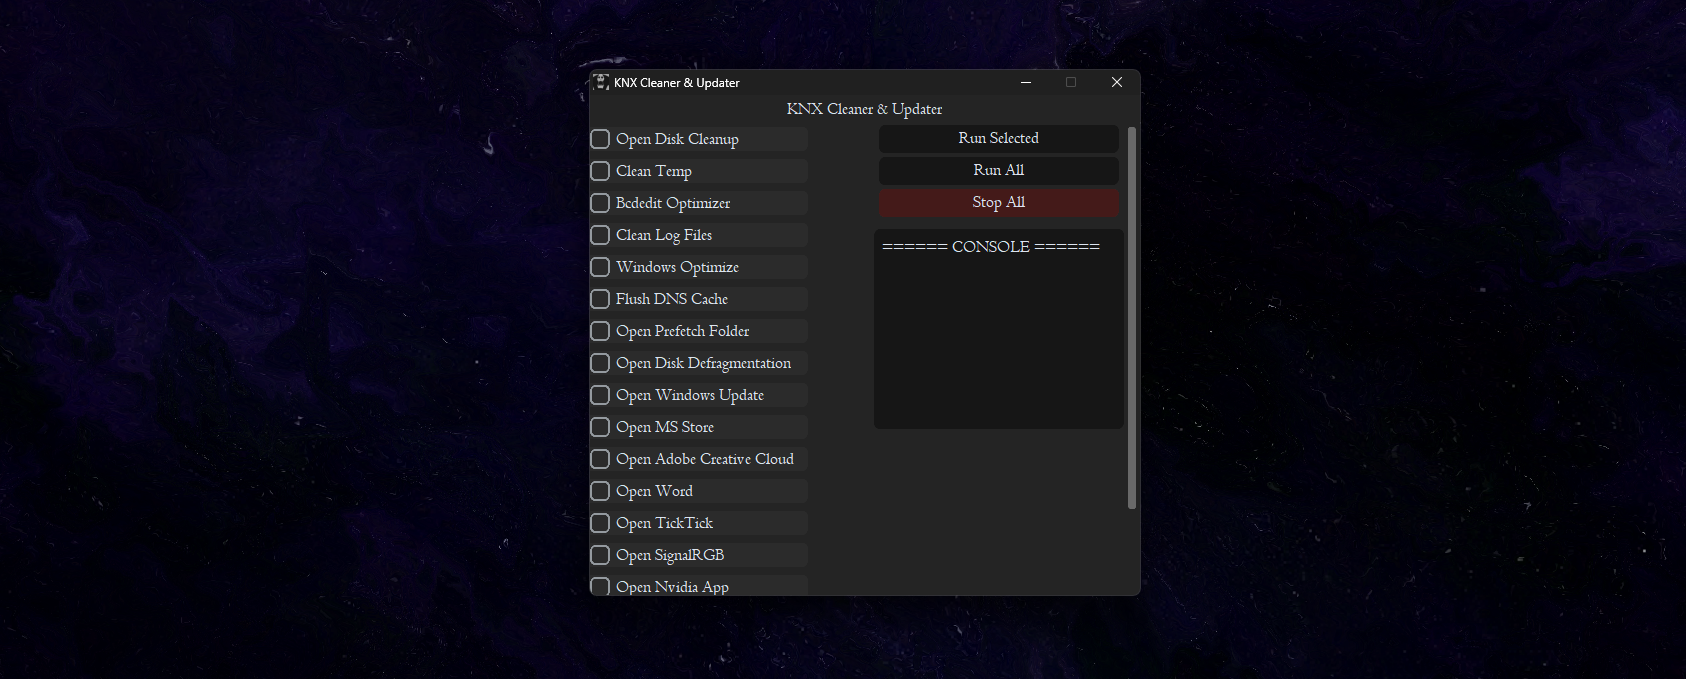
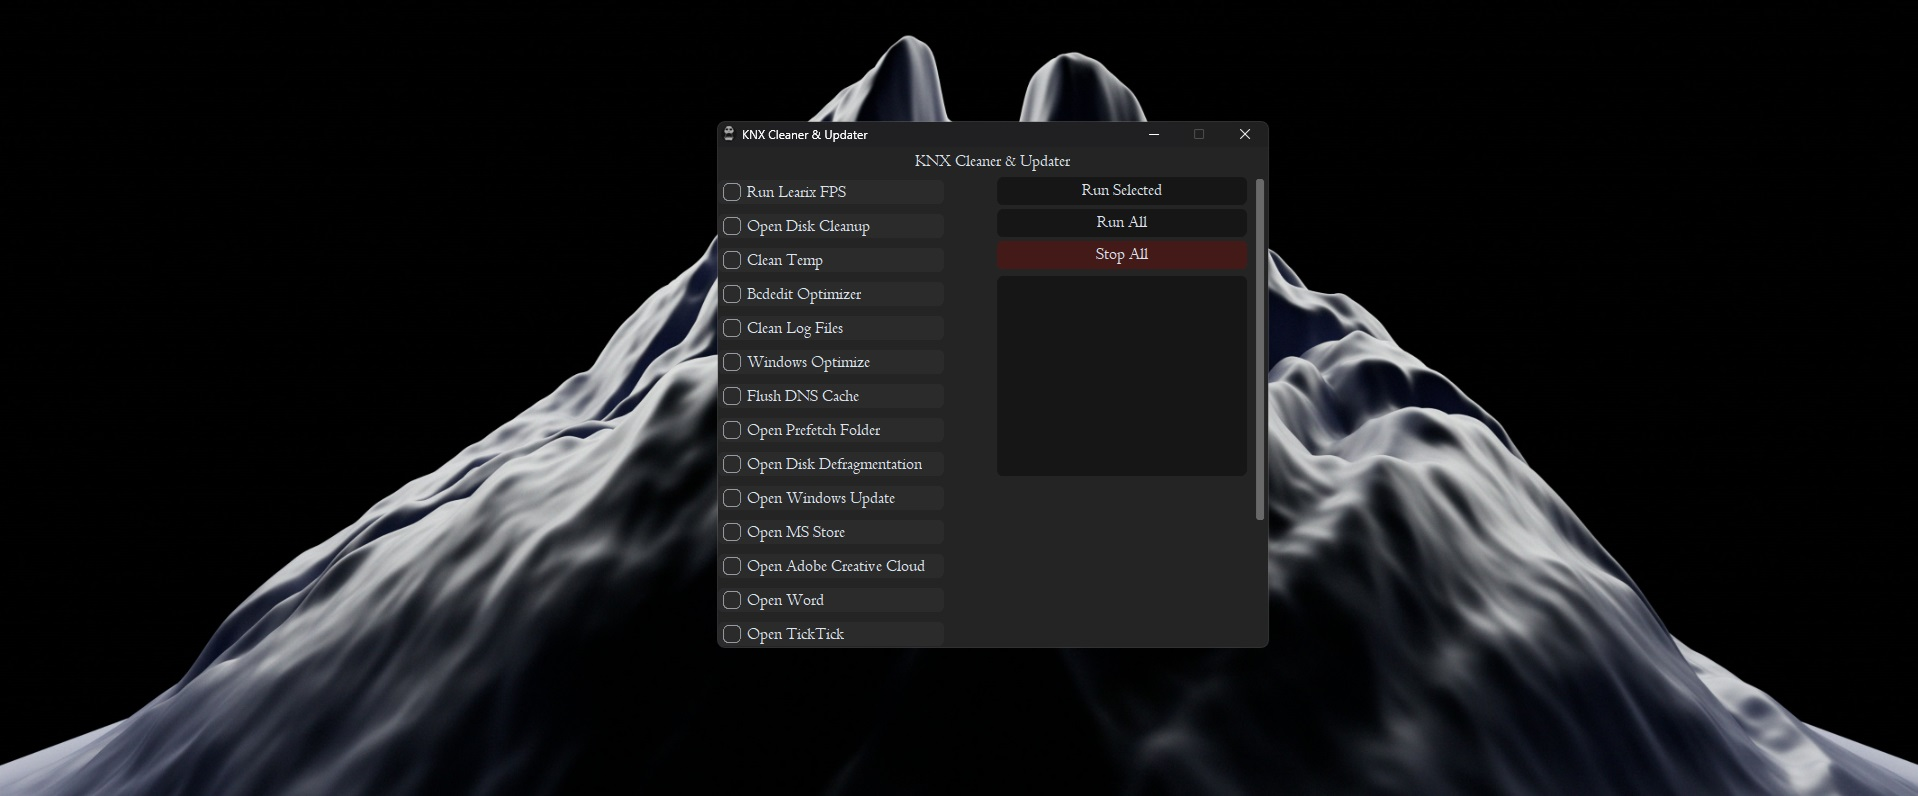
Updated README, Program img

diff --git a/README.md b/README.md
@@ -11,6 +11,7 @@ KNX Cleaner & Updater is a Python application designed to automate various syste
 - **Run All or Individual Functions:** Users can choose to run all available functions simultaneously or select specific functions to execute.
 - **Output Logging:** Output messages from each function execution are displayed in the application's output window, providing real-time feedback to the user.
 - **Stop All Functions:** Users have the option to stop all running functions with a single click, ensuring control and flexibility during maintenance tasks.
+- **Alert Window:** The application includes an alert window feature to notify users of important events or errors during function execution.
 
 ## Installation 🚀
 
@@ -29,11 +30,11 @@ KNX Cleaner & Updater is a Python application designed to automate various syste
 ## Dependencies 📦
 
 - Python 3.x
-- tkinter (included in standard library)
-- customtkinter
-- pygetwindow
-- ctypes
-- os
+- `tkinter` (included in standard library)
+- `customtkinter`
+- `pygetwindow`
+- `ctypes`
+- `os`
 - ...
 
 ## Contributing 🤝
